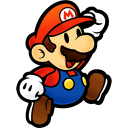
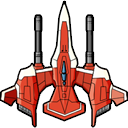
Make Mario (now airplane) face mouse

diff --git a/GameObject.cpp b/GameObject.cpp
@@ -1,0 +1,50 @@
+#include <SDL2/SDL.h>
+#include <SDL2_image/SDL_image.h>
+#include <iostream>
+#include <string>
+#include <math.h>
+
+using namespace std;
+
+
+#include "GameObject.h"
+
+GameObject::GameObject(string fileName, SDL_Renderer* r){
+	boundingBox.x = 0;
+	boundingBox.y = 0;
+	boundingBox.w = 32;
+	boundingBox.h = 32;
+
+	mainRenderer = r;
+
+	loadTexture(fileName);
+}
+
+void GameObject::loadTexture(string texturePath) {
+    SDL_Surface* loadedSurface = IMG_Load(texturePath.c_str());
+    if( loadedSurface == NULL )
+    {
+        printf( "Unable to load image %s! SDL_image Error: %s\n", texturePath.c_str(), IMG_GetError() );
+    }
+    texture = SDL_CreateTextureFromSurface(mainRenderer,loadedSurface);
+    if( texture == NULL )
+    {
+        printf( "Unable to create texture from %s! SDL Error: %s\n", texturePath.c_str(), SDL_GetError() );
+    }
+    SDL_FreeSurface(loadedSurface);
+}
+
+void GameObject::draw(){
+
+	int x, y;
+	SDL_GetMouseState(&x, &y);
+
+	double angle = atan2(y-boundingBox.y + boundingBox.h/2, x - boundingBox.x + boundingBox.w/2) * 180 / 3.1415926535897932;
+
+	SDL_RenderCopyEx(mainRenderer, texture, NULL, &boundingBox, angle + 90,  NULL, SDL_FLIP_NONE);
+}
+
+GameObject::~GameObject(){
+	SDL_DestroyTexture(texture);
+	texture = NULL;
+}

diff --git a/main.cpp b/main.cpp
@@ -32,19 +32,19 @@ int main(int argc, char *argv[]) {
         const Uint8* currentKeyStates = SDL_GetKeyboardState( NULL );
         if( currentKeyStates[ SDL_SCANCODE_UP ] )
         {
-            mario.boundingBox.y = mario.boundingBox.y - 2;
+            mario.boundingBox.y = mario.boundingBox.y - 1;
         }
         if( currentKeyStates[ SDL_SCANCODE_DOWN ] )
         {
-            mario.boundingBox.y = mario.boundingBox.y + 2;
+            mario.boundingBox.y = mario.boundingBox.y + 1;
         }
         if( currentKeyStates[ SDL_SCANCODE_LEFT ] )
         {
-            mario.boundingBox.x = mario.boundingBox.x - 2;
+            mario.boundingBox.x = mario.boundingBox.x - 1;
         }
         if( currentKeyStates[ SDL_SCANCODE_RIGHT ] )
         {
-            mario.boundingBox.x = mario.boundingBox.x + 2;
+            mario.boundingBox.x = mario.boundingBox.x + 1;
         }
         
         SDL_RenderClear(renderer);
